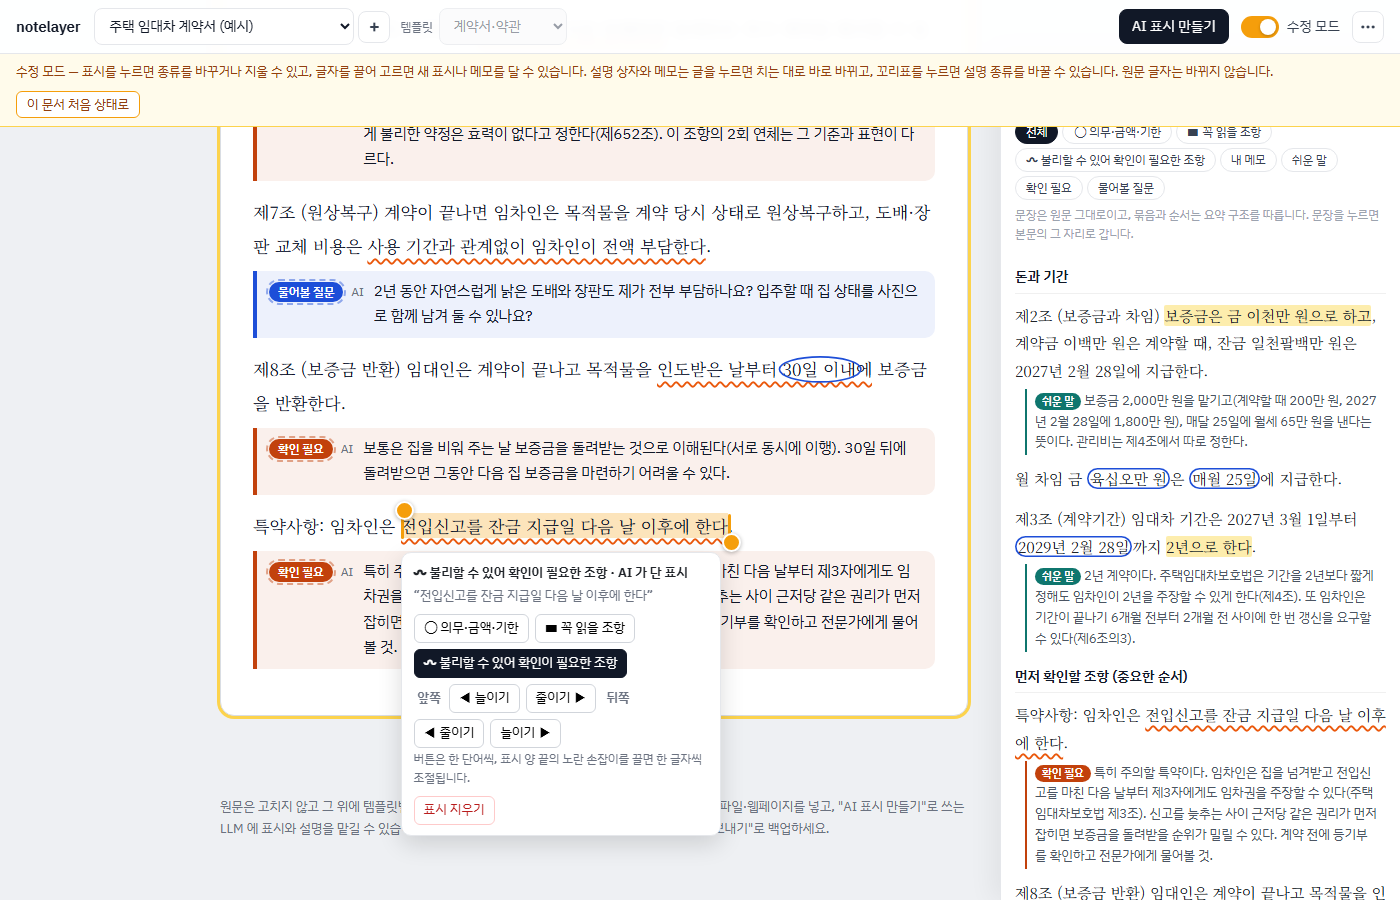
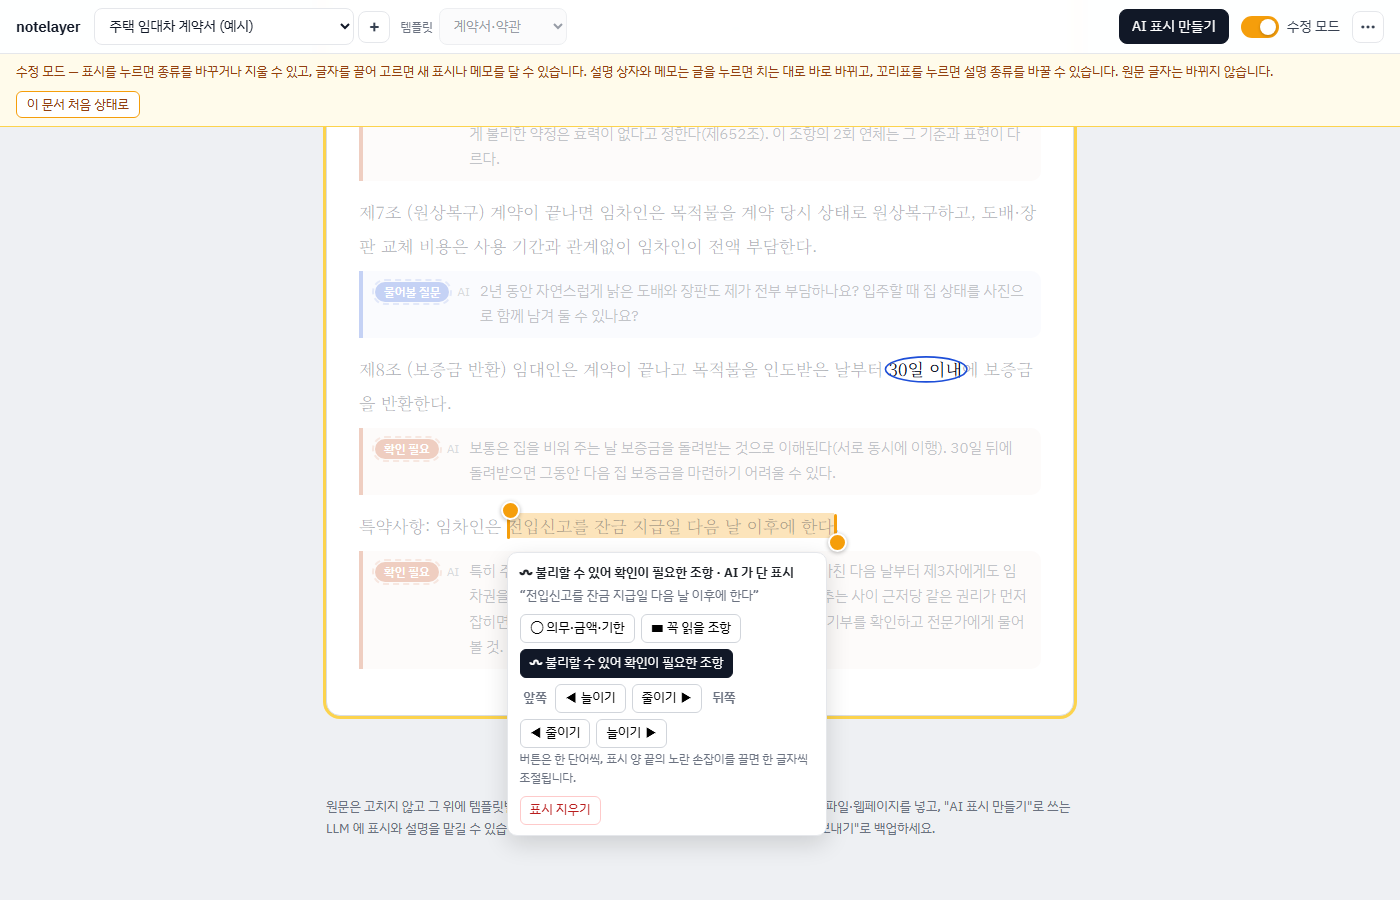
feat: 요약은 구조와 핵심 문장만, 종류별 강조는 본문에서
요약은 번호 묶음 아래 원문 문장을 글머리표로 나열하고 핵심어 굵게·외울 문장 옅은 형광펜만 남긴다(메모·설명·확인 필요는 본문 몫). 범례의 표시·설명 종류를 누르면 본문에서 그 종류만 또렷하게 남기고 나머지를 흐린다. 다시 누르거나 Esc 로 푼다.

diff --git a/app.js b/app.js
@@ -148,6 +148,7 @@ function startNotelayer() {
       onEmpty: () => { b.text = before; save(); render(); }, // 설명을 다 지우면 원래 글로 되돌린다. 상자를 없애려면 지우기
       onLabel: (tag) => openLabelMenu(b, tpl, tag),
     });
+    box.dataset.label = b.label; // 본문 강조에서 설명 종류로 고를 때 쓴다
     const body = el("div", "body");
     const whoEl = box.querySelector(".who");
     const touched = () => { if (!isPerson) b.edited = true; whoEl.textContent = whoText(b, "ai"); saveSoon(); };
@@ -234,19 +235,20 @@ function startNotelayer() {
     $("trLabel").title = hasTr ? "" : "이 문서는 번역할 필요가 없는 한국어 문서입니다";
     $("editSwitch").setAttribute("aria-checked", String(ui.editing));
 
+    if (ui.focus?.startsWith("box:") && !tpl.boxes[ui.focus.slice(4)]) ui.focus = null;
     // 출처와 범례: 모양의 뜻은 고정, 이름만 템플릿이 정한다
     $("meta").textContent = `원문: ${d.source} · 원문은 고치지 않고 그 위에 층만 얹는다`;
     const legend = $("legend");
     legend.replaceChildren(el("div", "reader", `${tpl.name} · 읽는 사람: ${tpl.reader} · ${tpl.rules.join(" · ")}`));
     const sumBtn = el("button", "k sum-open", "요약 보기");
-    sumBtn.title = "표시한 문장을 모은 요약을 오른쪽에 열기";
-    sumBtn.onclick = () => { ui.summary = !ui.summary; ui.focus = null; renderSummary(); };
+    sumBtn.title = "핵심 문장을 구조화한 요약을 오른쪽에 열기";
+    sumBtn.onclick = () => { ui.summary = !ui.summary; renderSummary(); };
     legend.append(sumBtn);
     for (const [kind, cls, name] of [["circle", "sw-circle", tpl.marks.circle], ["highlight", "sw-hl", tpl.marks.highlight],
       ["wave", "sw-wave", tpl.marks.wave], ["mine", "sw-mine", "내 메모"]]) {
       const k = el("button", "k");
       k.dataset.kind = kind;
-      k.title = "요약에서 이 종류만 또렷하게 보기";
+      k.title = "본문에서 이 종류만 또렷하게 보기 (다시 누르면 해제)";
       k.append(el("span", cls), el("span", null, name), el("span", "count"));
       k.onclick = () => focusKind(kind);
       legend.append(k);
@@ -257,7 +259,7 @@ function startNotelayer() {
     for (const [label, color] of Object.entries(tpl.boxes)) {
       const k = el("button", "k");
       k.dataset.kind = `box:${label}`;
-      k.title = "요약에서 이 설명만 또렷하게 보기";
+      k.title = "본문에서 이 설명만 또렷하게 보기 (다시 누르면 해제)";
       const dot = el("span", "dot"); dot.style.background = color;
       k.append(dot, el("span", null, label), el("span", "count"));
       k.onclick = () => focusKind(k.dataset.kind);
@@ -314,23 +316,31 @@ function startNotelayer() {
     const mine = ui.layers.mine ? st.memos.map((m) => locate(m.p, m.quote, m.at)).filter(Boolean).map(toRange) : [];
     const sel = selectedMark();
     const selLoc = sel && locate(sel.p, sel.quote, sel.at);
+    // 본문 강조: 범례에서 고른 종류만 또렷하게 남기고, 나머지 글·표시·설명은 흐리게 한다
+    const f = ui.focus;
+    const shows = (kind) => !f || f === kind;
     if (supportsHighlight) {
       CSS.highlights.clear();
-      CSS.highlights.set("mk-hl", new Highlight(...ranges.highlight));
-      CSS.highlights.set("mk-wave", new Highlight(...ranges.wave));
-      CSS.highlights.set("mk-mine", new Highlight(...mine));
+      if (shows("highlight")) CSS.highlights.set("mk-hl", new Highlight(...ranges.highlight));
+      if (shows("wave")) CSS.highlights.set("mk-wave", new Highlight(...ranges.wave));
+      if (shows("mine")) CSS.highlights.set("mk-mine", new Highlight(...mine));
       if (selLoc) CSS.highlights.set("mk-sel", new Highlight(toRange(selLoc)));
+      const focused = f === "mine" ? mine : ranges[f] ?? [];
+      if (f) CSS.highlights.set("mk-focus", new Highlight(...focused));
     }
-    circleRanges = ranges.circle;
+    circleRanges = shows("circle") ? ranges.circle : [];
+    article.classList.toggle("focus-mode", !!f);
+    for (const box of article.querySelectorAll(".box")) {
+      const on = f === "mine" ? box.classList.contains("mine") : f?.startsWith("box:") && !box.classList.contains("mine") && box.dataset.label === f.slice(4);
+      box.classList.toggle("dim", !!f && !on);
+    }
     $("orphans").textContent = (orphans.length ? `원래 자리를 못 찾은 표시: ${orphans.join(", ")}` : "")
       + (supportsHighlight ? "" : " 이 브라우저는 형광펜 기능을 지원하지 않아 동그라미만 보입니다.");
     queueDraw();
     renderSummary();
   }
 
-  // ── 오른쪽 요약: 표시가 걸린 문장을 원문 그대로 모으되, 묶음과 순서는 이해하기 쉽게 짠다 ──
-  // 요약 구조(outline: 묶음 제목 + 들어갈 문장)가 있으면 그 순서를 따르고,
-  // 없으면 핵심어마다 묶음을 만들어 그 핵심어가 나오는 문장을 모은다. 문장 글자는 늘 원문 그대로다.
+  // ── 범례 누르기 = 본문 강조 켜고 끄기 ──
   function countKind(kind) {
     const { st, ann } = cur();
     if (kind.startsWith("box:")) return ui.layers.boxes ? ann.boxes.filter((b) => b.label === kind.slice(4)).length : 0;
@@ -338,10 +348,24 @@ function startNotelayer() {
     return visibleMarks(ann).filter((m) => m.kind === kind).length;
   }
   function focusKind(kind) {
-    if (!ui.summary) { ui.summary = true; ui.focus = kind; }
-    else ui.focus = ui.focus === kind ? null : kind;
-    renderSummary();
+    ui.focus = ui.focus === kind ? null : kind;
+    paintMarks();
+    // 고른 종류의 첫 자리가 화면 밖이면 그쪽으로 옮긴다
+    const first = ui.focus && firstFocusedTop();
+    if (first != null && (first < 0 || first > innerHeight - 80)) scrollTo({ top: first + scrollY - innerHeight / 3, behavior: "smooth" });
   }
+  function firstFocusedTop() {
+    const f = ui.focus;
+    if (f.startsWith("box:") || f === "mine") return article.querySelector(".box:not(.dim)")?.getBoundingClientRect().top ?? null;
+    const { ann } = cur();
+    const m = visibleMarks(ann).filter((x) => x.kind === f).map((x) => locate(x.p, x.quote, x.at)).filter(Boolean)
+      .sort((a, b) => a.node.parentElement.dataset.p - b.node.parentElement.dataset.p || a.start - b.start)[0];
+    return m ? toRange(m).getBoundingClientRect().top : null;
+  }
+
+  // ── 오른쪽 요약: 원문 문장 그대로, 묶음과 순서는 이해하기 쉽게, 꼭 필요한 문장만 ──
+  // 추가 설명은 본문의 설명 상자(LLM)가 맡고, 요약은 구조와 핵심만 보여 준다.
+  // 요약 구조(outline)가 있으면 그 묶음·순서를 따르고, 없으면 핵심어마다 묶음을 만든다.
   // 문장 나누기: 마침표·물음표·느낌표 뒤에 빈칸이 오거나 문단이 끝나는 곳. "HTTP/1.1" 처럼 뒤에 글자가 붙은 점은 넘긴다
   function sentencesOf(text) {
     const out = [];
@@ -367,13 +391,14 @@ function startNotelayer() {
   const byDoc = (a, b) => a.p - b.p || a.start - b.start;
 
   function buildSummary() {
-    const { d, st, ann } = cur();
-    const marks = visibleMarks(ann).map((m) => ({ m, loc: locate(m.p, m.quote, m.at) })).filter((x) => x.loc);
-    const memos = ui.layers.mine ? st.memos.map((m) => ({ m, loc: locate(m.p, m.quote, m.at) })).filter((x) => x.loc) : [];
+    const { d, ann } = cur();
+    // 요약에 쓰는 표시는 핵심어와 외울 문장(꼭 필요한 것)뿐. 확인 필요·메모는 본문에서 본다
+    const marks = visibleMarks(ann).filter((m) => m.kind === "circle" || m.kind === "highlight")
+      .map((m) => ({ m, loc: locate(m.p, m.quote, m.at) })).filter((x) => x.loc);
     const used = new Set();
     const take = (s) => { if (!s || used.has(s.key)) return null; used.add(s.key); return s; };
     const candidates = [];
-    for (const x of [...marks, ...memos]) {
+    for (const x of marks) {
       const s = sentenceAt(x.m.p, x.loc.start);
       if (s && !candidates.some((c) => c.key === s.key)) candidates.push(s);
     }
@@ -391,8 +416,8 @@ function startNotelayer() {
         if (items.length) sections.push({ title: sec.title, items });
       }
       const rest = candidates.filter((s) => !used.has(s.key)).map(take);
-      if (rest.length) sections.push({ title: "그 밖에 짚은 곳", items: rest });
-      return { sections, marks, memos, source: "outline" };
+      if (rest.length) sections.push({ title: "그 밖의 핵심", items: rest });
+      return { sections, marks, source: "outline" };
     }
     // 구조가 없을 때: 핵심어(동그라미)가 처음 나오는 순서대로 묶음을 만든다.
     // 먼저 핵심어마다 자기 동그라미가 있는 문장을 배정하고, 남은 문장은 처음 언급한 핵심어 묶음에 넣는다
@@ -413,119 +438,67 @@ function startNotelayer() {
     }
     for (const g of groups) if (g.items.length) sections.push({ title: g.title, items: g.items.sort(byDoc) });
     const rest = candidates.filter((s) => !used.has(s.key)).map(take);
-    if (rest.length) sections.push({ title: sections.length ? "그 밖에 짚은 곳" : "짚은 곳", items: rest });
-    return { sections, marks, memos, source: "auto" };
+    if (rest.length) sections.push({ title: sections.length ? "그 밖의 핵심" : "핵심", items: rest });
+    return { sections, marks, source: "auto" };
   }
 
-  // 요약 안의 문장: 원문 글자 그대로, 그 위에 같은 모양의 표시를 다시 입힌다
-  function sentenceEl(s, marks, memos) {
+  // 요약 안의 문장: 원문 글자 그대로. 핵심어는 굵게, 외울 문장은 옅은 형광펜만
+  function sentenceEl(s, marks) {
     const ranges = [];
     for (const x of marks) if (x.m.p === s.p && x.loc.end > s.start && x.loc.start < s.end) ranges.push([Math.max(x.loc.start, s.start), Math.min(x.loc.end, s.end), x.m.kind]);
-    for (const x of memos) if (x.m.p === s.p && x.loc.end > s.start && x.loc.start < s.end) ranges.push([Math.max(x.loc.start, s.start), Math.min(x.loc.end, s.end), "mine"]);
     const cuts = [...new Set([s.start, s.end, ...ranges.flatMap(([a, z]) => [a, z])])].sort((a, b) => a - b);
     const text = cur().d.blocks.find((b) => b.p === s.p).text;
-    const node = el("div", "sent");
-    const kinds = new Set();
+    const li = el("li", "sent");
     for (let i = 0; i < cuts.length - 1; i++) {
       const [a, z] = [cuts[i], cuts[i + 1]];
       const on = ranges.filter(([ra, rz]) => ra <= a && z <= rz).map((r) => r[2]);
       const piece = text.slice(a, z);
-      if (!on.length) { node.append(document.createTextNode(piece)); continue; }
-      on.forEach((k) => kinds.add(k));
-      node.append(el("span", on.map((k) => `k-${k}`).join(" "), piece));
+      li.append(on.length ? el("span", on.map((k) => `k-${k}`).join(" "), piece) : document.createTextNode(piece));
     }
-    node.dataset.kinds = [...kinds].join("|"); // 설명 이름에 빈칸이 있어 | 로 나눈다
-    node.title = `문단 ${s.p} · 눌러서 본문의 그 자리로`;
-    node.onclick = () => jumpTo(s.p, s.start, s.end);
-    return node;
+    li.title = "눌러서 본문의 그 자리로";
+    li.onclick = () => jumpTo(s.p, s.start, s.end);
+    return li;
   }
 
   function renderSummary() {
     const side = $("side");
-    const { tpl, ann } = cur();
-    if (ui.focus?.startsWith("box:") && !tpl.boxes[ui.focus.slice(4)]) ui.focus = null; // 템플릿을 바꿔 없는 종류면 푼다
+    const { tpl } = cur();
     for (const k of document.querySelectorAll(".legend button.k[data-kind]")) {
       k.querySelector(".count").textContent = String(countKind(k.dataset.kind));
-      k.setAttribute("aria-pressed", String(ui.summary && ui.focus === k.dataset.kind));
+      k.setAttribute("aria-pressed", String(ui.focus === k.dataset.kind));
     }
-    const openBtn = document.querySelector(".legend .sum-open");
-    if (openBtn) openBtn.setAttribute("aria-pressed", String(ui.summary));
+    document.querySelector(".legend .sum-open")?.setAttribute("aria-pressed", String(ui.summary));
     document.body.classList.toggle("side-open", ui.summary);
     if (!ui.summary) { side.hidden = true; return; }
     side.hidden = false;
 
-    const { sections, marks, memos, source } = buildSummary();
+    const { sections, marks } = buildSummary();
     const header = el("header");
     const close = el("button", "close", "×");
     close.title = "닫기";
-    close.onclick = () => { ui.summary = false; ui.focus = null; renderSummary(); };
-    header.append(el("span", null, `요약 · ${tpl.name}`), close);
-
-    // 고르면 그 종류가 든 문장만 또렷하게, 나머지는 흐리게
-    const chips = el("div", "chips");
-    const chipDefs = [[null, "전체"], ["circle", `${SHAPE.circle} ${tpl.marks.circle}`], ["highlight", `${SHAPE.highlight} ${tpl.marks.highlight}`],
-      ["wave", `${SHAPE.wave} ${tpl.marks.wave}`], ["mine", "내 메모"], ...Object.keys(tpl.boxes).map((l) => [`box:${l}`, l])];
-    for (const [kind, label] of chipDefs) {
-      const c = el("button", "chip", label);
-      c.setAttribute("aria-pressed", String(ui.focus === kind));
-      c.onclick = () => { ui.focus = kind; renderSummary(); };
-      chips.append(c);
-    }
-    const note = el("div", "sum-note", source === "outline"
-      ? "문장은 원문 그대로이고, 묶음과 순서는 요약 구조를 따릅니다. 문장을 누르면 본문의 그 자리로 갑니다."
-      : "문장은 원문 그대로이고, 핵심어가 처음 나오는 순서로 묶었습니다. 문장을 누르면 본문의 그 자리로 갑니다.");
+    close.onclick = () => { ui.summary = false; renderSummary(); };
+    const title = el("div", "sum-title");
+    title.append(el("strong", null, "요약"), el("span", null, tpl.name));
+    header.append(title, close);
 
     const body = el("div", "sum-body");
-    if (!sections.length) body.append(el("div", "empty", "아직 표시가 없습니다. 수정 모드에서 표시하거나 \"AI 표시 만들기\"를 써 보세요."));
-    const firstItemOfPara = new Map();
+    if (!sections.length) body.append(el("p", "empty", "핵심어나 외울 문장을 표시하면 여기에 구조화된 요약이 생깁니다."));
+    const list = el("ol", "sum-list");
     for (const sec of sections) {
-      const box = el("section", "sum-sec");
-      box.append(el("h3", null, sec.title));
-      for (const s of sec.items) {
-        const wrap = el("div", "item-wrap");
-        wrap.append(sentenceEl(s, marks, memos));
-        for (const x of memos) {
-          if (x.m.p !== s.p || x.loc.start < s.start || x.loc.start >= s.end) continue;
-          const n = el("div", "sum-memo", `나: ${x.m.text || "(빈 메모)"}`);
-          n.dataset.kinds = "mine";
-          n.onclick = () => jumpToBox(x.m.id);
-          wrap.append(n);
-        }
-        if (!firstItemOfPara.has(s.p)) firstItemOfPara.set(s.p, wrap);
-        box.append(wrap);
-      }
-      body.append(box);
+      const li = el("li", "sum-sec");
+      const ul = el("ul");
+      for (const s of sec.items) ul.append(sentenceEl(s, marks));
+      li.append(el("h3", null, sec.title), ul);
+      list.append(li);
     }
-    // 설명 상자의 첫 줄은 같은 문단에서 처음 요약에 든 문장 아래에 붙인다. 문단이 요약에 없으면 끝에 모은다
-    const leftover = [];
-    if (ui.layers.boxes) {
-      for (const b of ann.boxes) {
-        const n = el("div", "sum-box");
-        n.style.setProperty("--c", tpl.boxes[b.label] ?? "#6b7280");
-        n.append(el("span", "tag", b.label), document.createTextNode(` ${b.text}`));
-        n.dataset.kinds = `box:${b.label}`;
-        n.onclick = () => jumpToBox(b.id);
-        const host = firstItemOfPara.get(b.p);
-        if (host) host.append(n); else leftover.push(n);
-      }
-    }
-    if (leftover.length) { const sec = el("section", "sum-sec"); sec.append(el("h3", null, "그 밖의 설명"), ...leftover); body.append(sec); }
-
-    // 흐리게 하기
-    if (ui.focus) {
-      for (const w of body.querySelectorAll(".item-wrap")) {
-        const has = [...w.querySelectorAll("[data-kinds]")].some((n) => n.dataset.kinds.split("|").includes(ui.focus));
-        w.classList.toggle("dim", !has);
-        for (const n of w.querySelectorAll(".sum-memo, .sum-box")) n.classList.toggle("dim", !n.dataset.kinds.split("|").includes(ui.focus));
-      }
-      for (const n of body.querySelectorAll(":scope > .sum-sec > .sum-box")) n.classList.toggle("dim", n.dataset.kinds !== ui.focus);
-      body.dataset.focus = ui.focus;
-    }
-    for (const sec of body.querySelectorAll(".sum-sec")) {
-      if (ui.focus && !sec.querySelector(".item-wrap:not(.dim), :scope > .sum-box:not(.dim)")) sec.classList.add("dim");
-    }
-    side.replaceChildren(header, chips, note, body);
+    if (sections.length) body.append(list, el("p", "sum-foot", "문장은 원문 그대로입니다. 누르면 본문의 그 자리로 갑니다."));
+    side.replaceChildren(header, body);
   }
+
+  // Esc 로 본문 강조를 푼다(열린 창이 없을 때)
+  document.addEventListener("keydown", (e) => {
+    if (e.key === "Escape" && ui.focus && !document.querySelector("dialog[open]")) { ui.focus = null; paintMarks(); }
+  });
 
   // 본문의 그 자리로 화면을 옮기고 잠깐 반짝인다
   let flashTimer = 0;
@@ -540,14 +513,6 @@ function startNotelayer() {
       clearTimeout(flashTimer);
       flashTimer = setTimeout(() => CSS.highlights.delete("mk-flash"), 1600);
     }
-  }
-  function jumpToBox(id) {
-    const box = article.querySelector(`.box[data-id="${id}"]`);
-    if (!box) return;
-    box.open = true; openIds.add(id);
-    const r = box.getBoundingClientRect();
-    scrollTo({ top: r.top + scrollY - innerHeight / 3, behavior: "smooth" });
-    box.classList.remove("flash"); void box.offsetWidth; box.classList.add("flash");
   }
   // AI 가 단 표시는 "AI 표시" 층, 내가 달거나 고친 표시는 "내 표시·메모" 층에 속한다
   function visibleMarks(ann) {

diff --git a/app.css b/app.css
@@ -268,3 +268,30 @@
   .more { position: static; }
   .menu { position: fixed; left: 16px; right: 16px; top: calc(var(--bar-h, 52px) + 4px); min-width: 0; }
 }
+
+/* ── 요약 v2: 번호 묶음 + 글머리표, 핵심어 굵게·외울 문장 옅은 형광펜만 ── */
+.side { background: #fff; }
+.side header { padding: 14px 18px; }
+.side .sum-title { display: flex; align-items: baseline; gap: 8px; }
+.side .sum-title strong { font-size: 16px; }
+.side .sum-title span { font-size: 12px; font-weight: 400; color: #9ca3af; }
+.side .sum-body { padding: 4px 18px 40px; }
+.side .sum-list { list-style: none; counter-reset: sec; margin: 0; padding: 0; }
+.side .sum-sec { counter-increment: sec; margin: 0 0 18px; }
+.side .sum-sec h3 { display: flex; gap: 8px; align-items: baseline; margin: 0 0 6px; font: 600 14px/1.5 var(--ui); color: #111827; border: 0; padding: 0; }
+.side .sum-sec h3::before { content: counter(sec); flex: none; width: 20px; height: 20px; border-radius: 50%; background: #111827; color: #fff;
+  font-size: 11px; display: inline-grid; place-items: center; transform: translateY(-1px); }
+.side .sum-sec ul { margin: 0; padding: 0 0 0 28px; }
+.side .sum-sec .sent { margin: 0 0 6px; padding: 1px 4px; border-radius: 6px; font: 14.5px/1.75 var(--body-font); color: #374151; cursor: pointer; }
+.side .sum-sec .sent::marker { color: #9ca3af; }
+.side .sum-sec .sent:hover { background: #f9fafb; color: #111827; }
+.side .sent .k-circle { font-weight: 700; color: #111827; box-shadow: none; padding: 0; border-radius: 0; }
+.side .sent .k-highlight { background: color-mix(in srgb, var(--hl) 55%, transparent); border-radius: 2px; }
+.side .sum-foot { margin: 8px 0 0; color: #9ca3af; font-size: 12px; }
+.side .empty { color: #6b7280; font-size: 13px; }
+
+/* ── 본문 강조: 고른 종류만 또렷하게, 나머지 글·설명은 흐리게 ── */
+article.focus-mode p[data-p], article.focus-mode .tr { color: color-mix(in srgb, var(--ink) 32%, transparent); transition: color .2s; }
+::highlight(mk-focus) { color: var(--ink); }
+article .box { transition: opacity .2s; }
+article .box.dim { opacity: .25; }
